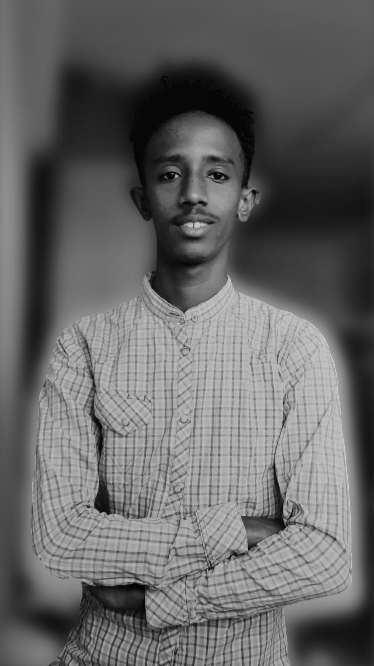
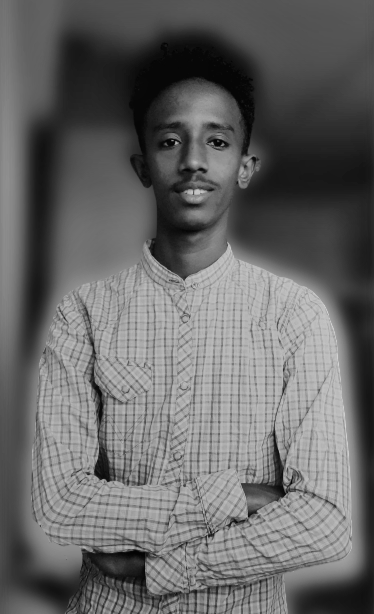
hover effect added on home page photo

diff --git a/css/index.css b/css/index.css
@@ -263,6 +263,12 @@ p, li, a {
 .block__image {
   width: 100%;
   border-radius: 15px;
+  filter: brightness(80%);
+}
+.block__image:hover {
+  filter: brightness(100%);
+  transform: translateX(-15px);
+  transition: 1s;
 }
 
 .footer {
